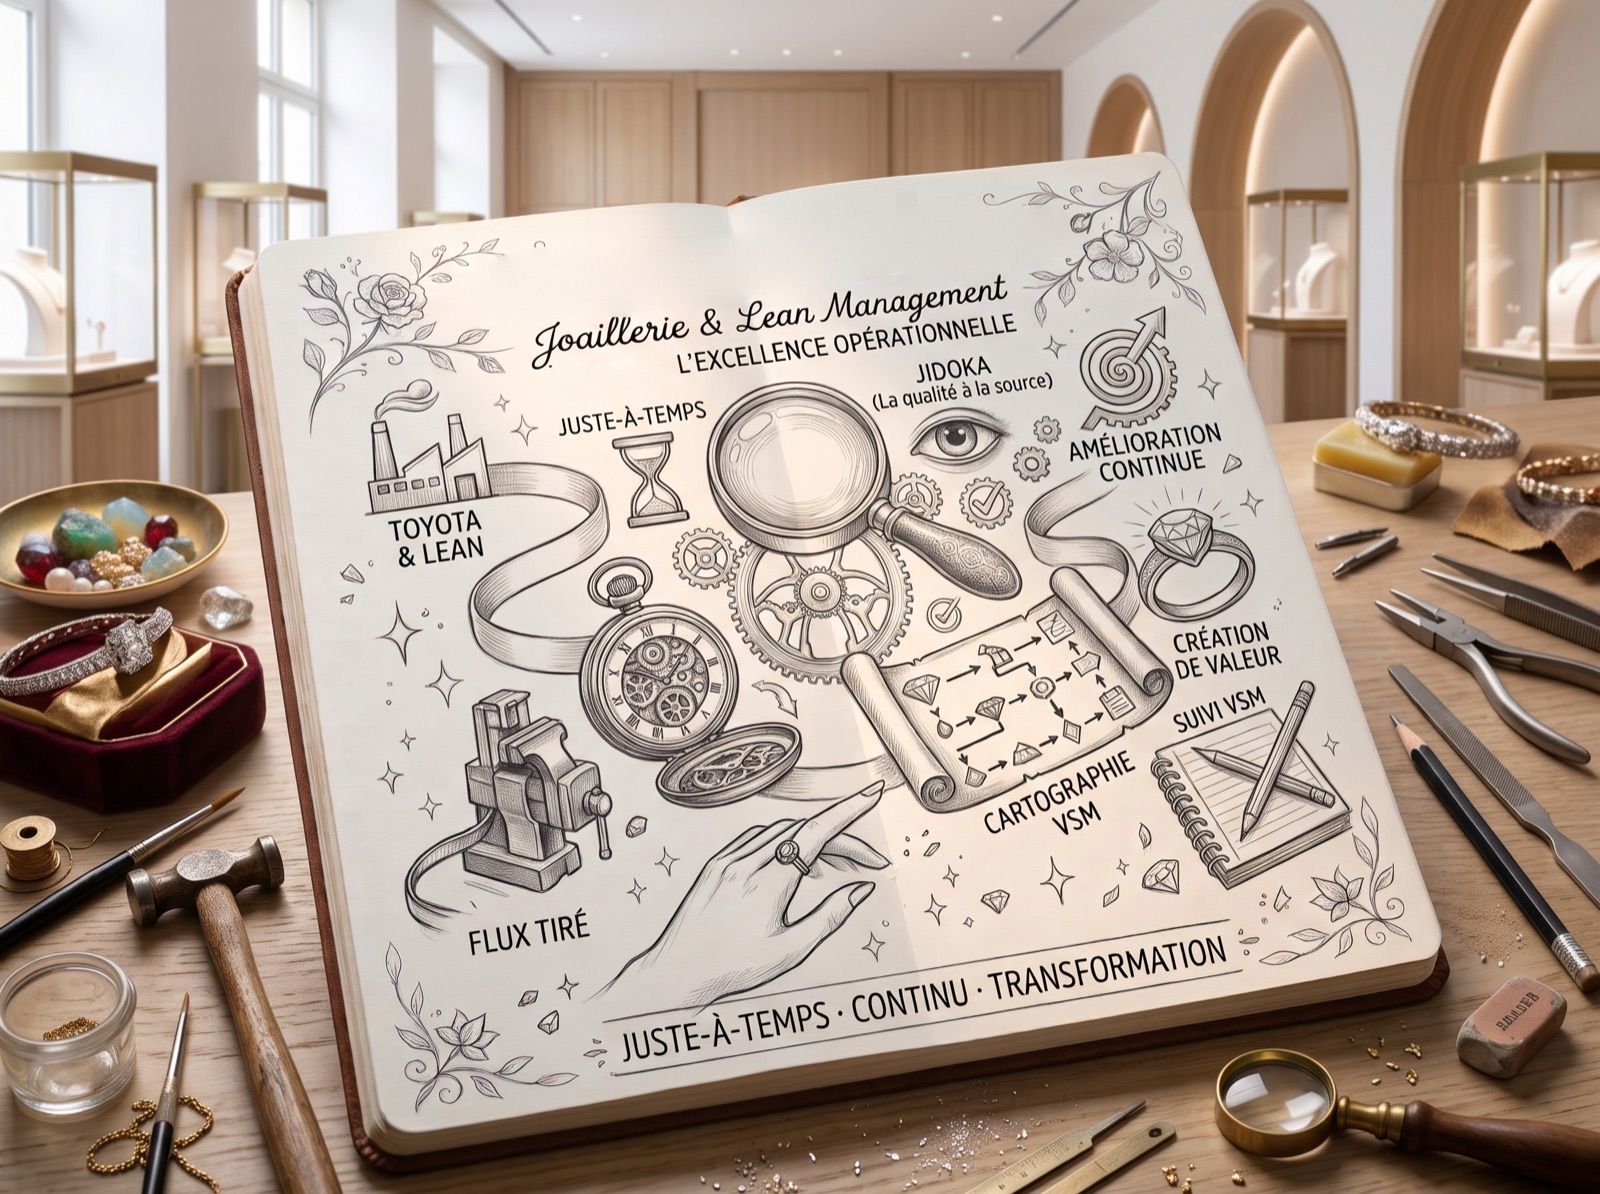
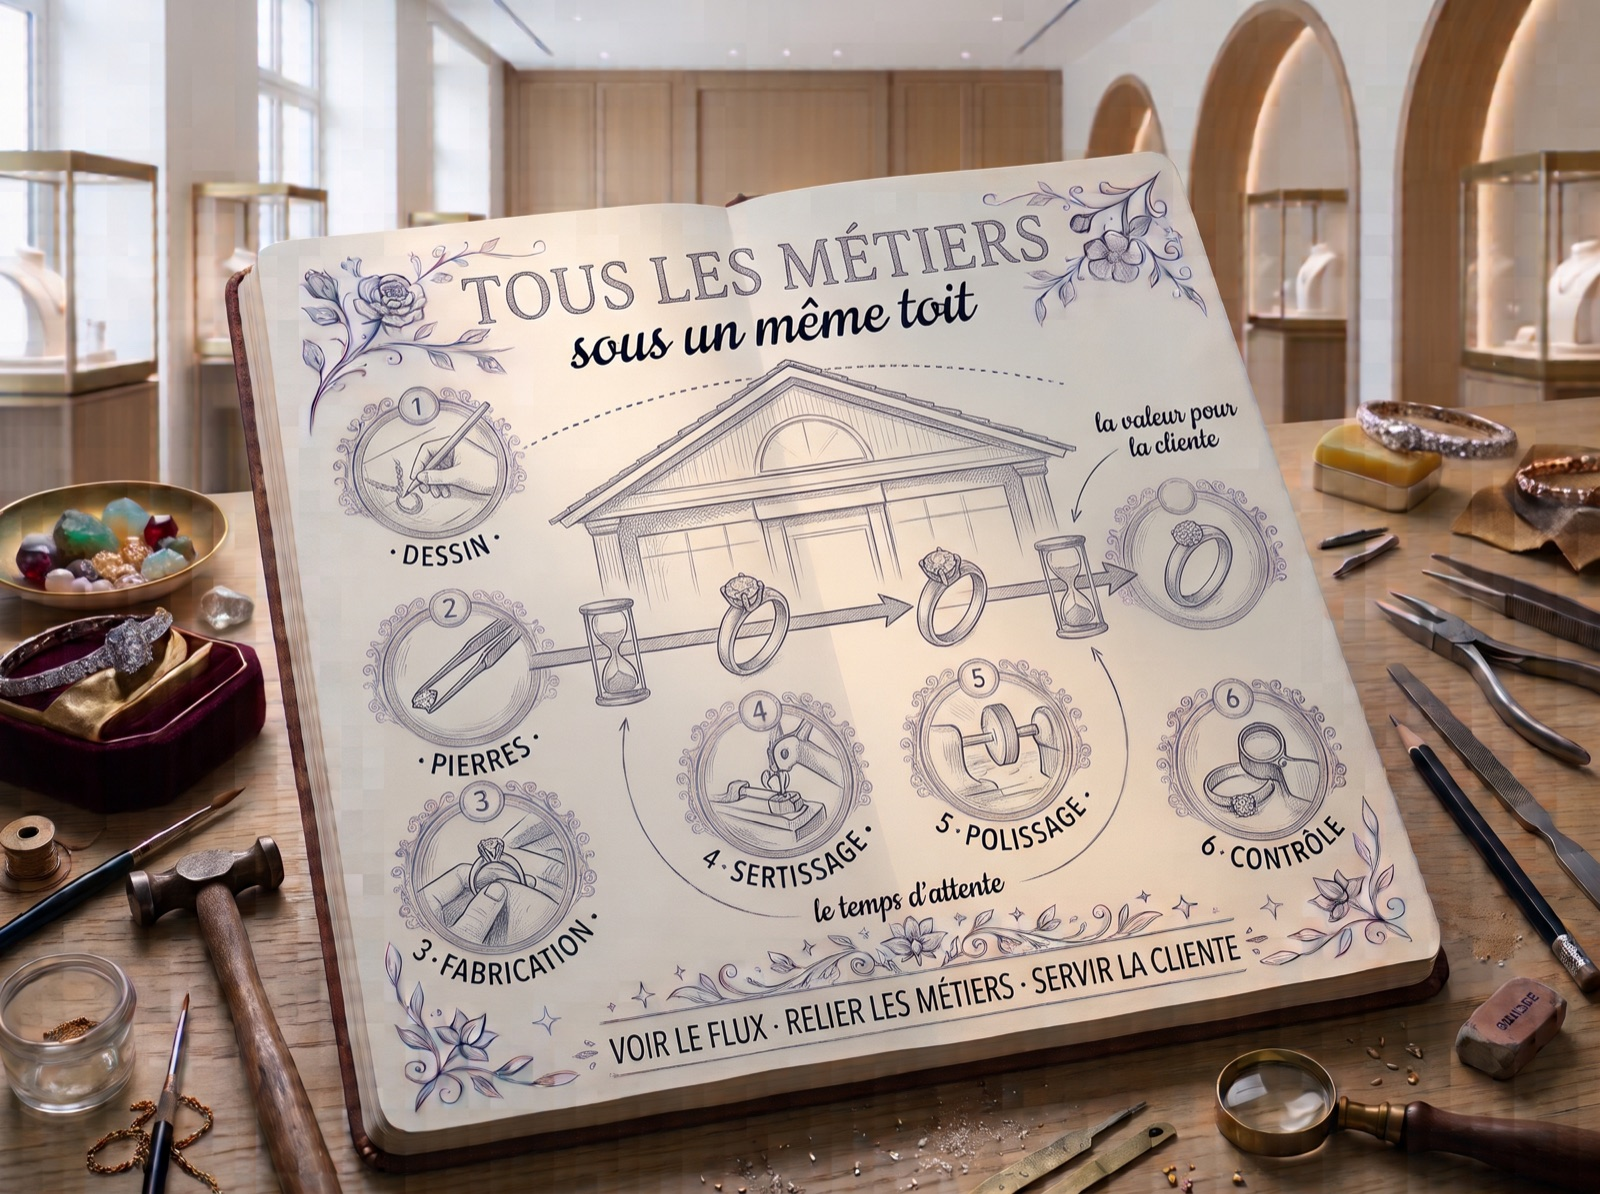
feat: épisode 2 « Tous les métiers sous un même toit » (angle Cartier joaillerie) – illustration et carte

diff --git a/src/data/episodes.js b/src/data/episodes.js
@@ -30,13 +30,14 @@ export const episodes = [
   {
     id: 'ep-2',
     episodeNumber: 2,
-    title: "Épisode 2 – Qu'est-ce que l'excellence opérationnelle en joaillerie ?",
-    shortTitle: "L'excellence opérationnelle",
+    title: 'Épisode 2 – Tous les métiers sous un même toit',
+    shortTitle: 'Tous les métiers',
+    cardTitle: 'Tous les métiers\nsous un même toit',
     image: '/infographics/ep-2.jpg',
-    plannedDuration: '16 min',
+    plannedDuration: '15 min',
     description:
-      "Pièces uniques, petites séries, matière à très forte valeur : le Lean né dans l'automobile peut-il s'appliquer à un atelier de joaillerie ? Valeur client, flux et respect du geste artisan.",
-    keywords: [...base, 'lean', 'valeur client'],
+      "Cartier indique réunir tous les métiers de la Haute Joaillerie dans ses ateliers parisiens. Ce que cette organisation implique pour l'excellence opérationnelle : la valeur pour la cliente, la chaîne de valeur d'une pièce, le flux entre métiers et la cartographie VSM.",
+    keywords: [...base, 'flux', 'VSM'],
   },
   {
     id: 'ep-3',

diff --git a/design/retouches/retouch.html b/design/retouches/retouch.html
@@ -282,14 +282,9 @@ function fixEpisode1(ctx) {
 }
 
 function fixEpisode2Carnet(ctx) {
-  // Thème « carnet » : on retire « L'ÉCLAT MAÎTRISÉ » et « ÉPISODE 2 : » (on garde « L'EXCELLENCE OPÉRATIONNELLE »)
-  eraseAll(ctx, [{ poly: [
-    [698, 405], [780, 372], [1000, 358], [1200, 338], [1280, 320], [1480, 308], [1582, 308],
-    [1582, 393], [1520, 394], [1470, 401], [1440, 403], [1370, 409], [1290, 419], [1255, 430],
-    [1200, 432], [1145, 445], [1100, 450], [1040, 455], [1000, 459], [950, 475], [860, 477],
-    [820, 480], [800, 482], [795, 486], [698, 486],
-  ] }], { cap: false, lightBorder: true });
-  eraseAll(ctx, [{ poly: [[812, 552], [840, 549], [900, 545], [1008, 532], [1008, 590], [900, 596], [812, 597]] }], { cap: false, lightBorder: true });
+  // Version « Cartier joaillerie » : le médaillon de la bague finie (arrivée du flux) portait
+  // un « 6 » en doublon avec « 6 · CONTRÔLE » : on vide sa pastille.
+  eraseAll(ctx, [[1750, 726, 1782, 761]], { cap: false, lightBorder: true });
 }
 
 function fixEpisode3Carnet(ctx) {
